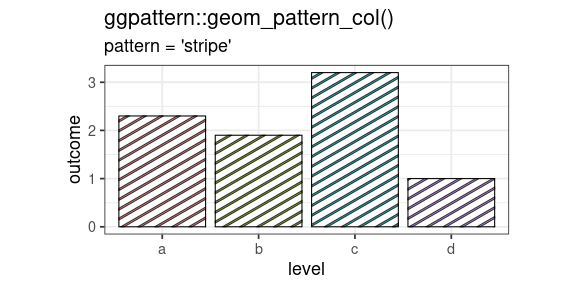
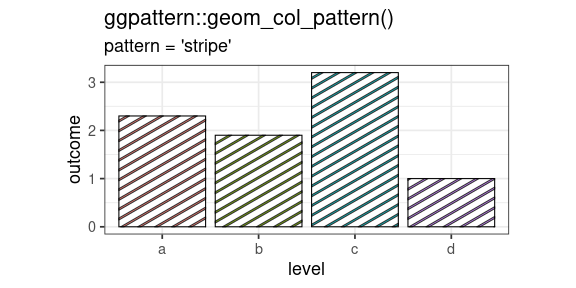
docs(README): Update
* Regenerate image
* Set `fig.cap = ""` to remove "unnamed plot chunk" caption
* Remove TODO section (which we track in Github Issues)
* Fix typo

closes #110

Changed region(s): [[0.4688, 0.0312, 0.6562, 0.0938]]

diff --git a/README.md b/README.md
@@ -75,7 +75,7 @@ ggplot(df) +
   coord_fixed(ratio = 1/2)
 ```
 
-<img src="man/figures/README-unnamed-chunk-2-1.png" title="plot of chunk unnamed-chunk-2" alt="plot of chunk unnamed-chunk-2" width="100%" />
+<img src="man/figures/README-unnamed-chunk-2-1.png" width="100%" />
 
 
 # Gallery
@@ -98,7 +98,7 @@ ggplot(df) +
 
 ## Available Geoms
 
-`ggpattern` includes versions of (nearly) all geoms from `ggplot2` which could plausiblly
+`ggpattern` includes versions of (nearly) all geoms from `ggplot2` which could plausibly
 support being filled with a pattern.
 
 See the vignette galleries for examples of all the available geoms filled with 
@@ -224,8 +224,3 @@ See the vignette on developing patterns: [`vignette("developing-patterns", packa
   often faster to save directly to PNG or PDF and view that.
 * Self intersecting geometry can be an issue.  
 * Non-linear coordinate systems have not been tested.
-
-# ToDo
-
-* Possibly add  geoms from third-party sources e.g.
-    * `geom_circle()` and `geom_voronoi()` from [ggforce](https://github.com/thomasp85/ggforce)
